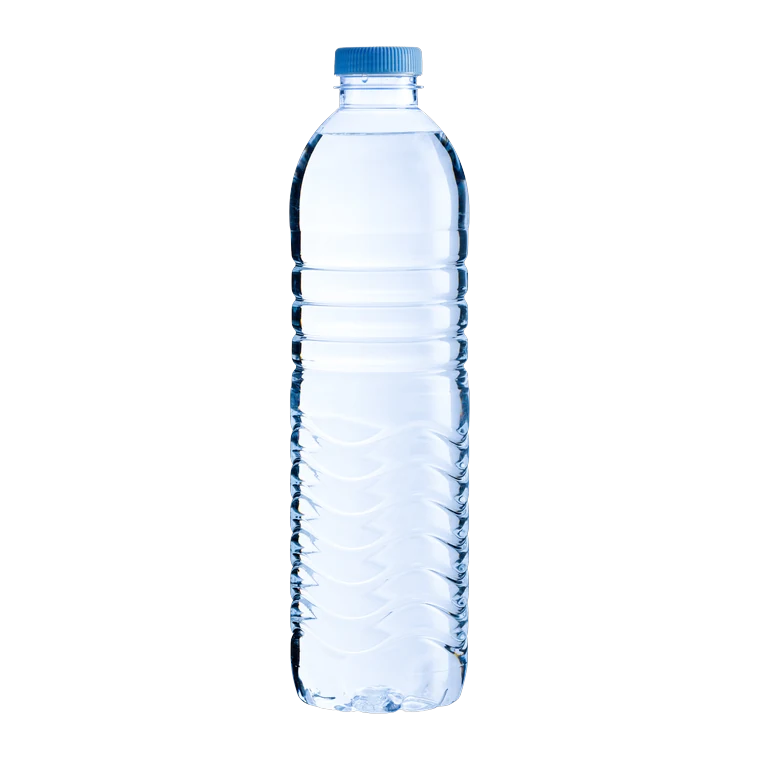
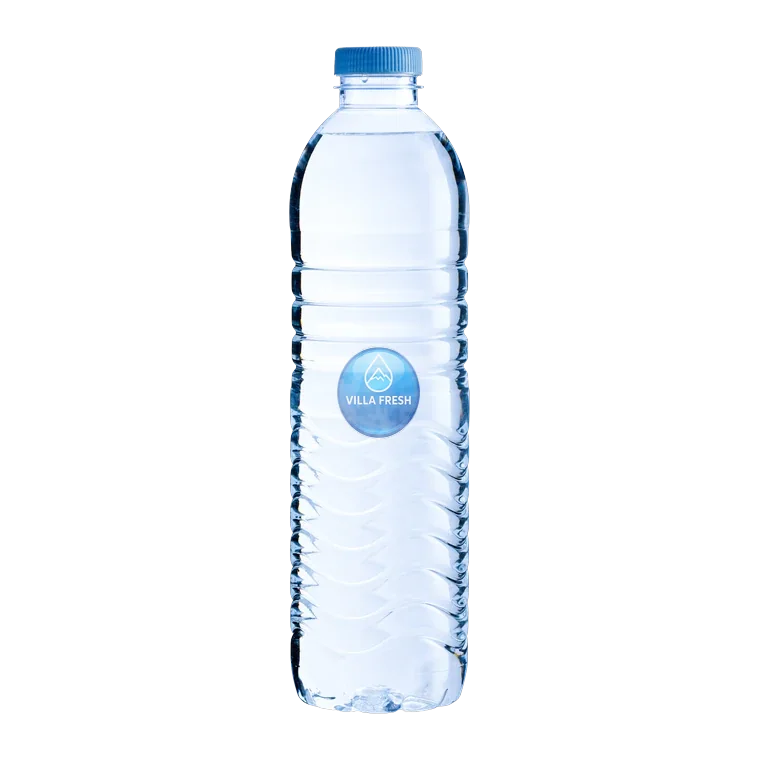
Poner el logotipo de Villa Fresh sobre las fotos de producto
Las cuatro fotografias del catalogo llevan ahora el logotipo real colocado
sobre el envase. El catalogo pasa de mostrar bidones genericos a mostrar
producto de la marca, que es lo que pedia la referencia.

Se usa el archivo de marca tal cual, sin anadirle una sola palabra. La
referencia llevaba botellas rotuladas "NATURAL ALPINE WATER", y eso no es solo
una etiqueta inventada: es falso. Villa Fresh vende agua de mesa purificada
por osmosis inversa, no agua de manantial, y esa distincion es el argumento de
la pagina entera. Colocar el logotipo es branding; escribir una categoria de
producto que la marca no vende es otra cosa. Hay una prueba que falla si el
script empieza a dibujar texto.

El fondo negro de la referencia tampoco entra: los recortes siguen sobre
transparente y se apoyan en el panel del tema, claro u oscuro.

El detalle que hace que la etiqueta no parezca pegada es que los reflejos del
plastico vuelven por encima. La primera pasada tomaba el brillo general y,
como la botella entera es clara, la mascara se disparaba y borraba el logotipo
casi del todo; ahora solo pasan los especulares.

Esto cambia una regla, y conviene decirlo en vez de dejarlo pasar: DESIGN.md
afirmaba que ninguna imagen podia presentarse como el producto real. Con la
marca puesta eso deja de ser cierto. Lo que sigue en pie es lo que importa: la
planta y el equipo no se representan nunca, sobre el envase no se escribe
nada, y el envase de la foto no es el que se entrega.
[…]

Changed region(s): [[0.4237, 0.4539, 0.575, 0.575]]

diff --git a/tests/build.test.ts b/tests/build.test.ts
@@ -277,3 +277,13 @@ test('la banda de precio no inventa un tercer precio', async () => {
   expect(cifras).toEqual(['30', '50'])
   expect(banda).toContain('A cotizar')
 })
+
+test('sobre el envase no hay más texto que el logotipo', async () => {
+  const guion = await readFile('scripts/marcar-producto.py', 'utf8')
+  // El mockup de referencia rotulaba las botellas "NATURAL ALPINE WATER".
+  // Además de ser una etiqueta inventada es falso: Villa Fresh vende agua de
+  // mesa purificada, no de manantial, y esa distinción es el argumento de la
+  // página. El script coloca el archivo de marca y no escribe nada.
+  expect(guion).not.toMatch(/ImageDraw|ImageFont|\.text\(/)
+  expect(guion).toContain('logo-villafresh-circulo.png')
+})

diff --git a/scripts/marcar-producto.py b/scripts/marcar-producto.py
@@ -1,0 +1,74 @@
+#!/usr/bin/env python3
+"""Coloca el logotipo real de Villa Fresh sobre las fotografías de producto.
+
+    python3 scripts/marcar-producto.py
+
+Lee los recortes sin marca de `marca/sin-marca/`, les pone el logotipo y
+escribe el resultado en `public/`. Es reproducible: si hay que rehacer una
+foto, se cambia aquí la posición y se vuelve a ejecutar.
+
+Lo que este script NO hace, a propósito: no dibuja una etiqueta. Usa el
+archivo de marca tal cual, sin añadirle una sola palabra. La referencia que
+inspiró esto llevaba botellas rotuladas «NATURAL ALPINE WATER», que además de
+ser una etiqueta inventada es falso: Villa Fresh vende agua de mesa purificada
+por ósmosis inversa, no agua de manantial. Cualquier texto sobre el envase
+tendría que salir de `src/data/`, no de aquí.
+"""
+from PIL import Image, ImageFilter
+import numpy as np
+import pathlib
+
+RAIZ = pathlib.Path(__file__).resolve().parent.parent
+LOGO = Image.open(RAIZ / 'marca' / 'logo-villafresh-circulo.png')
+
+# (cx, cy, ancho) en fracción de la caja visible del objeto, no del lienzo.
+PLAN = {
+    'producto-bidon-20l': [(0.50, 0.44, 0.58)],
+    'producto-bidones': [(0.17, 0.45, 0.20), (0.50, 0.47, 0.22), (0.83, 0.50, 0.21)],
+    'producto-botella': [(0.50, 0.52, 0.52)],
+    'producto-dispensador': [(0.50, 0.17, 0.34)],
+}
+
+
+def caja_visible(im):
+    """Los límites de lo que no es transparente."""
+    a = np.asarray(im.getchannel('A'))
+    ys, xs = np.where(a > 8)
+    return xs.min(), ys.min(), xs.max(), ys.max()
+
+
+def marcar(im, cx, cy, ancho, curva=0.10, fuerza_brillo=0.55, umbral=244):
+    x0, y0, x1, y1 = caja_visible(im)
+    ow = x1 - x0
+    d = max(8, int(ow * ancho))
+
+    logo = LOGO.resize((d, d), Image.LANCZOS)
+    # El envase es un cilindro: una etiqueta plana sobre un cilindro se ve más
+    # estrecha de lo que es.
+    logo = logo.resize((int(d * (1 - curva)), d), Image.LANCZOS)
+
+    capa = Image.new('RGBA', im.size, (0, 0, 0, 0))
+    capa.paste(logo, (int(x0 + ow * cx - logo.width / 2),
+                      int(y0 + (y1 - y0) * cy - logo.height / 2)), logo)
+    salida = Image.alpha_composite(im, capa)
+
+    # Los reflejos del plástico vuelven por encima del logotipo. Es el único
+    # detalle que separa una etiqueta puesta de una etiqueta pegada.
+    #
+    # Sólo los especulares. Con el umbral bajo entra el brillo general, y como
+    # la botella entera es clara la máscara se dispara y se come el logotipo.
+    base = np.asarray(im.convert('RGBA')).astype(float)
+    lum = base[..., :3].max(axis=2) * (base[..., 3] / 255.0)
+    alto = np.clip((lum - umbral) / (255.0 - umbral), 0, 1) * fuerza_brillo
+    mascara = Image.fromarray((alto * 255).astype(np.uint8)).filter(ImageFilter.GaussianBlur(1.1))
+    return Image.composite(im, salida, mascara)
+
+
+if __name__ == '__main__':
+    for nombre, puntos in PLAN.items():
+        im = Image.open(RAIZ / 'marca' / 'sin-marca' / f'{nombre}.webp').convert('RGBA')
+        for cx, cy, an in puntos:
+            im = marcar(im, cx, cy, an)
+        destino = RAIZ / 'public' / f'{nombre}.webp'
+        im.save(destino, 'WEBP', quality=84, method=6)
+        print(f'{nombre}  {destino.stat().st_size // 1024} KB')

diff --git a/DESIGN.md b/DESIGN.md
@@ -6,7 +6,7 @@ documento existe hoy en `src/styles/site.css`. Si algo cambia en el código, se 
 
 | | |
 |---|---|
-| **Versión** | 6 — iconografía y movimiento de página |
+| **Versión** | 7 — fotografía de producto con la marca puesta |
 | **Fecha** | 29 de agosto de 2026 |
 | **Implementación** | `src/styles/site.css` · `src/components/` · `src/pages/` |
 | **Sustituye a** | `stitch_boutique_de_agua_premium/design.md` (dirección clara/premium, descartada) |
@@ -537,9 +537,36 @@ Fotografía con licencia de Adobe Stock, recortada sobre fondo transparente:
 `producto-dispensador.webp` y `portada-bidones.webp`. Sustituyen a las ilustraciones
 SVG que hubo hasta la versión 3. El detalle de cada licencia está en `marca/LICENCIAS.md`.
 
-**Ninguna imagen puede presentarse como la planta de Villa Fresh, su producto real ni
-su equipo.** Son fotografías genéricas con licencia. Cuando lleguen las fotos propias,
-se reemplazan.
+### Qué son exactamente estas imágenes
+
+Fotografía de archivo con licencia, recortada, **con el logotipo real de Villa Fresh
+colocado encima**. Eso las convierte en una representación del producto de Villa Fresh,
+no en una foto de él.
+
+La regla anterior decía que ninguna imagen podía presentarse como el producto real. Al
+poner la marca, esa regla deja de cumplirse y no tiene sentido fingir lo contrario. Lo
+que sigue en pie, y es lo que de verdad importa:
+
+- **La planta y el equipo no se representan nunca.** Ahí no hay nada que colocar: una
+  nave o unas personas de archivo serían otra planta y otra gente.
+- **Sobre el envase no se escribe nada** que no sea el logotipo tal cual está en
+  `marca/`. Ni una palabra añadida.
+- **El envase de la foto no es el envase que se entrega.** Si el bidón real lleva otra
+  etiqueta, estas fotos hay que rehacerlas con una foto propia.
+
+`scripts/marcar-producto.py` deja el proceso repetible: cambia la posición y se
+regenera. Los recortes sin marca se conservan en `marca/sin-marca/`.
+
+### La etiqueta inventada sigue prohibida
+
+El mockup que originó esto llevaba botellas rotuladas **«NATURAL ALPINE WATER»**. Eso
+no es sólo una etiqueta inventada: es falso. Villa Fresh vende **agua de mesa
+purificada por ósmosis inversa**, no agua de manantial, y esa distinción es
+precisamente el argumento de la página entera.
+
+Colocar el logotipo real es branding. Escribir una categoría de producto que la marca
+no vende es otra cosa. Cualquier texto que aparezca sobre un envase tiene que salir de
+`src/data/`, donde está el contenido verificado.
 
 ### Lo que la fotografía no puede decir
 
@@ -574,8 +601,8 @@ Lleva al pie una etiqueta mono que dice lo que es: *imagen de archivo con licenc
 No es un crédito decorativo, es la misma honestidad que rige el resto de la
 fotografía, escrita donde se ve.
 
-Prohibido: bidones genéricos con etiquetas inventadas y cualquier imagen generada que
-muestre una etiqueta que no es la de Villa Fresh.
+Prohibido: etiquetas inventadas, texto añadido sobre el envase, y cualquier imagen
+generada que muestre una etiqueta que no es la de Villa Fresh.
 
 ---
 

diff --git a/marca/LICENCIAS.md b/marca/LICENCIAS.md
@@ -15,11 +15,19 @@ Todas de tarifa libre (`pricing: free`). Cinco fotografías y un vídeo.
 Los originales a resolución completa se recuperan en Adobe Stock con esos identificadores:
 la licencia está en la cuenta, así que no hace falta versionarlos aquí.
 
+**Las cuatro de producto llevan ahora el logotipo puesto.** Dejan de ser fotografías
+genéricas y pasan a representar el producto de Villa Fresh. Lo que no cambia: el envase
+de la foto no es el envase que se entrega, y si el bidón real lleva otra etiqueta hay
+que rehacerlas con fotografía propia. El detalle está en `DESIGN.md` §11.
+
 ## Tratamiento aplicado
 
 1. Licencia y descarga a resolución completa.
 2. Fondo recortado con `image_remove_background` (Photoshop API) en las tres de producto.
 3. Recorte al contenido útil, encaje en lienzo cuadrado de 760 px con 6 % de margen.
+3b. **Logotipo de Villa Fresh colocado sobre el envase** con
+    `scripts/marcar-producto.py`. Se usa el archivo de marca tal cual, sin añadirle
+    texto. Los recortes sin marca quedan en `marca/sin-marca/` como fuente.
 4. Exportación a **WebP**. La spec pedía PNG; se cambió porque el mismo recorte pesa
    296 KB en PNG y 48 KB en WebP, con transparencia y sin pérdida visible. WebP con canal
    alfa está soportado en todos los navegadores actuales.

diff --git a/README.md b/README.md
@@ -139,9 +139,10 @@ tratado en planta es falso y expone frente a Indecopi y a la etiqueta sanitaria.
 - [ ] Desglose real de los **8 pasos** de purificación (hoy se muestran las 4 etapas documentadas)
 - [ ] Correo corporativo y dominio
 - [ ] Libro de Reclamaciones (obligatorio en Perú para venta al consumidor)
-- [ ] Fotos reales del producto y de la planta. Hoy hay fotografía **genérica con
-      licencia**, que no puede presentarse como la planta ni el producto de Villa
-      Fresh; el detalle está en `marca/LICENCIAS.md`
+- [ ] Fotos reales del producto y de la planta. Hoy hay fotografía de archivo con
+      licencia **con el logotipo puesto encima** (`scripts/marcar-producto.py`), que
+      representa el producto pero no es el envase que se entrega. La planta y el
+      equipo no se representan en absoluto. Detalle en `marca/LICENCIAS.md`
 
 Los pendientes aparecen en la web entre corchetes, a propósito, para que se vean y
 no se olviden.
